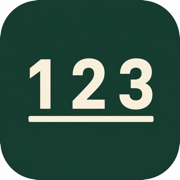
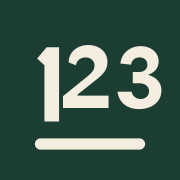
feat: 字体缩放交互调整；图标调整

diff --git a/src/components/MusicXMLViewer.vue b/src/components/MusicXMLViewer.vue
@@ -276,6 +276,7 @@ import {
   SCORE_FONT_SIZE_DEFAULT,
   SCORE_FONT_SIZE_MIN,
   SCORE_FONT_SIZE_MAX,
+  SCORE_FONT_SIZE_LEVELS,
   clampScoreFontSize,
 } from '../utils/scoreMetrics.js'
 import {
@@ -474,6 +475,72 @@ const ScoreToolbarControls = defineComponent({
         ),
       ])
 
+    const fontSizeDotsVisible = ref(false)
+    let fontSizeDotsTimer = 0
+    let fontTapFromTouch = false
+    let zoomBlockTimer = 0
+    let zoomBlockHandler = null
+
+    const revealFontSizeDots = () => {
+      fontSizeDotsVisible.value = true
+      window.clearTimeout(fontSizeDotsTimer)
+      fontSizeDotsTimer = window.setTimeout(() => {
+        fontSizeDotsVisible.value = false
+        fontSizeDotsTimer = 0
+      }, 2000)
+    }
+
+    const clearZoomBlock = () => {
+      window.clearTimeout(zoomBlockTimer)
+      zoomBlockTimer = 0
+      if (zoomBlockHandler) {
+        document.removeEventListener('touchend', zoomBlockHandler, true)
+        zoomBlockHandler = null
+      }
+    }
+
+    const armPageZoomBlock = () => {
+      if (!zoomBlockHandler) {
+        zoomBlockHandler = (e) => {
+          if (e.cancelable) e.preventDefault()
+        }
+        document.addEventListener('touchend', zoomBlockHandler, {
+          capture: true,
+          passive: false,
+        })
+      }
+      window.clearTimeout(zoomBlockTimer)
+      zoomBlockTimer = window.setTimeout(clearZoomBlock, 400)
+    }
+
+    const stepScoreFontSize = (delta) => {
+      revealFontSizeDots()
+      emit('font-size-step', delta)
+    }
+
+    const onFontSizeClick = (delta) => () => {
+      if (fontTapFromTouch) {
+        fontTapFromTouch = false
+        return
+      }
+      stepScoreFontSize(delta)
+    }
+
+    const onFontSizeTouchEnd = (delta) => (e) => {
+      if (e.cancelable) e.preventDefault()
+      fontTapFromTouch = true
+      stepScoreFontSize(delta)
+      armPageZoomBlock()
+      window.setTimeout(() => {
+        fontTapFromTouch = false
+      }, 500)
+    }
+
+    onBeforeUnmount(() => {
+      window.clearTimeout(fontSizeDotsTimer)
+      clearZoomBlock()
+    })
+
     return () => {
       const stacked = props.layout === 'stack'
       const showStart = props.group !== 'end'
@@ -624,10 +691,11 @@ const ScoreToolbarControls = defineComponent({
           exportNode,
         ]),
       ])
-      const appearanceSeg = h(
-        'div',
-        { class: 'menu-seg menu-seg--actions menu-seg--appearance' },
-        [
+      const appearanceSeg = h('div', { class: 'toolbar-appearance-block' }, [
+        h(
+          'div',
+          { class: 'menu-seg menu-seg--actions menu-seg--appearance' },
+          [
             h('div', { class: 'toolbar-appearance-row' }, [
               h(
                 'button',
@@ -636,8 +704,10 @@ const ScoreToolbarControls = defineComponent({
                   class: 'control-font-btn control-font-btn--small',
                   disabled: props.scoreFontSize <= SCORE_FONT_SIZE_MIN,
                   title: '缩小字号',
-                  'aria-label': '缩小字号',
-                  onClick: () => emit('font-size-step', -1),
+                  'aria-label': `缩小字号，当前 ${props.scoreFontSize}`,
+                  onClick: onFontSizeClick(-1),
+                  onTouchend: onFontSizeTouchEnd(-1),
+                  onDblclick: (e) => e.preventDefault(),
                 },
                 '小'
               ),
@@ -648,8 +718,10 @@ const ScoreToolbarControls = defineComponent({
                   class: 'control-font-btn control-font-btn--large',
                   disabled: props.scoreFontSize >= SCORE_FONT_SIZE_MAX,
                   title: '增大字号',
-                  'aria-label': '增大字号',
-                  onClick: () => emit('font-size-step', 1),
+                  'aria-label': `增大字号，当前 ${props.scoreFontSize}`,
+                  onClick: onFontSizeClick(1),
+                  onTouchend: onFontSizeTouchEnd(1),
+                  onDblclick: (e) => e.preventDefault(),
                 },
                 '大'
               ),
@@ -683,8 +755,32 @@ const ScoreToolbarControls = defineComponent({
                 ),
               ]),
             ]),
-        ]
-      )
+          ]
+        ),
+        h(
+          'div',
+          {
+            class: [
+              'font-size-dots-row',
+              fontSizeDotsVisible.value ? 'font-size-dots-row--visible' : '',
+            ],
+          },
+          [
+          h(
+            'div',
+            { class: 'font-size-dots', 'aria-hidden': 'true' },
+            SCORE_FONT_SIZE_LEVELS.map((size) =>
+              h('span', {
+                class: [
+                  'font-size-dot',
+                  size <= props.scoreFontSize ? 'font-size-dot--on' : '',
+                ],
+              })
+            )
+          ),
+          h('div', { class: 'font-size-dots-spacer', 'aria-hidden': 'true' }),
+        ]),
+      ])
       const exampleSeg = h('div', { class: 'menu-seg menu-seg--dark' }, [
         exampleSelect('menu-row'),
       ])
@@ -2004,6 +2100,10 @@ onBeforeUnmount(() => {
   min-width: 0;
 }
 
+:deep(.toolbar-controls--row .toolbar-appearance-block) {
+  flex: 0 0 auto;
+}
+
 :deep(.toolbar-controls--stack) {
   flex-direction: column;
   align-items: stretch;
@@ -2050,6 +2150,7 @@ onBeforeUnmount(() => {
   gap: 4px;
   min-height: var(--menu-row-height);
   padding: 0 12px;
+  touch-action: manipulation;
 }
 
 :deep(.menu-row-label),
@@ -2157,6 +2258,7 @@ onBeforeUnmount(() => {
   display: inline-flex;
   align-items: center;
   justify-content: center;
+  touch-action: manipulation;
 }
 
 :deep(.toolbar-actions-row .btn:hover:not(:disabled)),
@@ -2186,8 +2288,17 @@ onBeforeUnmount(() => {
   min-width: 0;
 }
 
+:deep(.toolbar-appearance-block) {
+  position: relative;
+  display: flex;
+  flex-direction: column;
+  align-items: stretch;
+  min-width: 0;
+}
+
 :deep(.control-font-btn) {
   box-sizing: border-box;
+  position: relative;
   min-width: 0;
   width: auto;
   height: var(--menu-row-height);
@@ -2204,6 +2315,7 @@ onBeforeUnmount(() => {
   display: inline-flex;
   align-items: center;
   justify-content: center;
+  touch-action: manipulation;
 }
 
 :deep(.control-font-btn--small) {
@@ -2221,6 +2333,53 @@ onBeforeUnmount(() => {
 :deep(.control-font-btn:disabled) {
   opacity: 0.55;
   cursor: not-allowed;
+}
+
+:deep(.font-size-dots-row) {
+  position: absolute;
+  left: 0;
+  right: 0;
+  top: calc(100% + 2px);
+  z-index: 3;
+  display: flex;
+  align-items: center;
+  width: 100%;
+  margin: 0;
+  opacity: 0;
+  pointer-events: none;
+  visibility: hidden;
+}
+
+:deep(.font-size-dots-row--visible) {
+  opacity: 1;
+  visibility: visible;
+}
+
+:deep(.font-size-dots) {
+  display: flex;
+  align-items: center;
+  justify-content: center;
+  flex: 7 1 0;
+  min-width: 0;
+  gap: 5px;
+}
+
+:deep(.font-size-dots-spacer) {
+  flex: 3 1 0;
+  min-width: 0;
+}
+
+:deep(.font-size-dot) {
+  flex-shrink: 0;
+  width: 5px;
+  height: 5px;
+  border-radius: 50%;
+  background: currentColor;
+  opacity: 0.22;
+}
+
+:deep(.font-size-dot--on) {
+  opacity: 1;
 }
 
 :deep(.control-chip--theme) {
@@ -2259,6 +2418,18 @@ onBeforeUnmount(() => {
 }
 
 :deep(.toolbar-controls--row .control-font-btn--large)::before {
+  display: none;
+}
+
+:deep(.toolbar-controls--row .font-size-dots-row) {
+  right: 44px;
+}
+
+:deep(.toolbar-controls--row .font-size-dots) {
+  flex: 1 1 auto;
+}
+
+:deep(.toolbar-controls--row .font-size-dots-spacer) {
   display: none;
 }
 
@@ -2414,6 +2585,7 @@ onBeforeUnmount(() => {
   opacity: 0;
   pointer-events: none;
   transition: opacity 0.2s ease;
+  touch-action: manipulation;
 }
 
 .menu-anchor--fixed {
@@ -2442,6 +2614,7 @@ onBeforeUnmount(() => {
   align-items: center;
   justify-content: center;
   color: var(--color-text-primary);
+  touch-action: manipulation;
 }
 
 .menu-icon {

diff --git a/public/index.html b/public/index.html
@@ -3,7 +3,7 @@
   <head>
     <meta charset="utf-8">
     <meta http-equiv="X-UA-Compatible" content="IE=edge">
-    <meta name="viewport" content="width=device-width,initial-scale=1.0">
+    <meta name="viewport" content="width=device-width, initial-scale=1.0, maximum-scale=1.0">
     <meta name="description" content="将 MusicXML 曲谱转换为简谱，并导出 PDF">
     <meta name="theme-color" content="#1B3D32">
     <link rel="icon" type="image/svg+xml" href="<%= BASE_URL %>favicon.svg">

diff --git a/src/utils/scoreMetrics.js b/src/utils/scoreMetrics.js
@@ -4,6 +4,11 @@ export const SCORE_FONT_SIZE_MIN = 12
 export const SCORE_FONT_SIZE_MAX = 22
 export const SCORE_TITLE_FONT_SIZE = 28
 
+export const SCORE_FONT_SIZE_LEVELS = Array.from(
+  { length: SCORE_FONT_SIZE_MAX - SCORE_FONT_SIZE_MIN + 1 },
+  (_, i) => SCORE_FONT_SIZE_MIN + i
+)
+
 /** 设备+自动换行：每行唱名/休止/延音占位/小节线数量 */
 export const READABLE_LINE_UNITS = {
   single: { min: 45, max: 75 },

diff --git a/src/App.vue b/src/App.vue
@@ -20,6 +20,8 @@ body {
   /* Safari aA「小/100%/大」只放大 HTML 文字，谱面 SVG 不会变；整页都不跟它走 */
   -webkit-text-size-adjust: none;
   text-size-adjust: none;
+  /* 菜单 Teleport 到 body，避免 Safari 双击缩放页面 */
+  touch-action: manipulation;
 }
 
 *,
